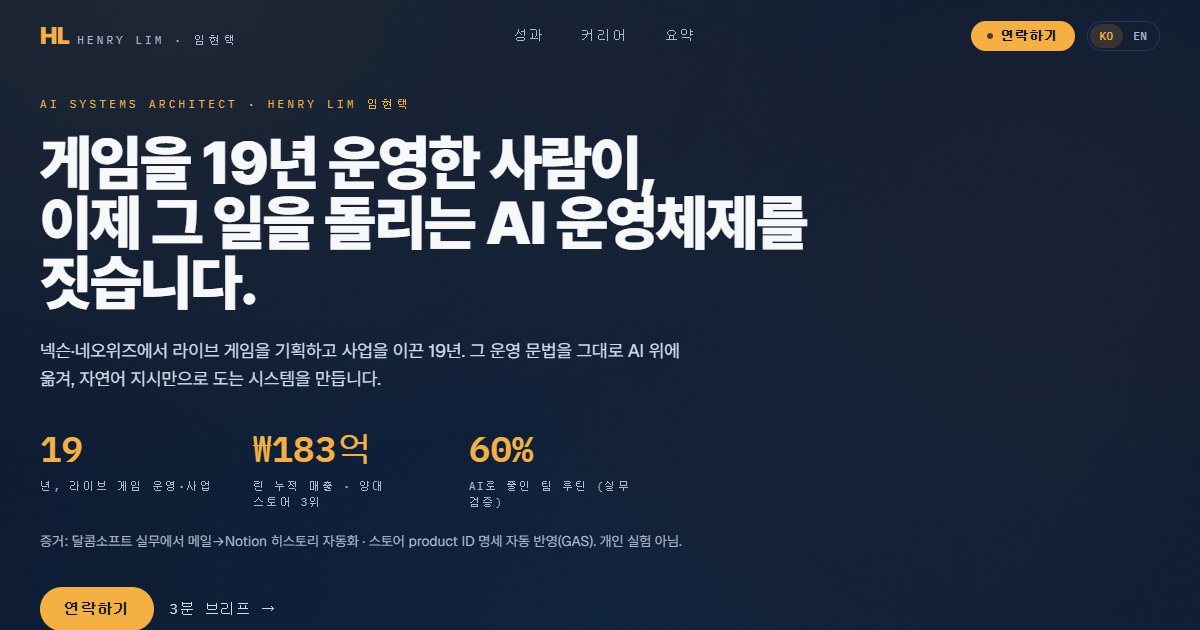
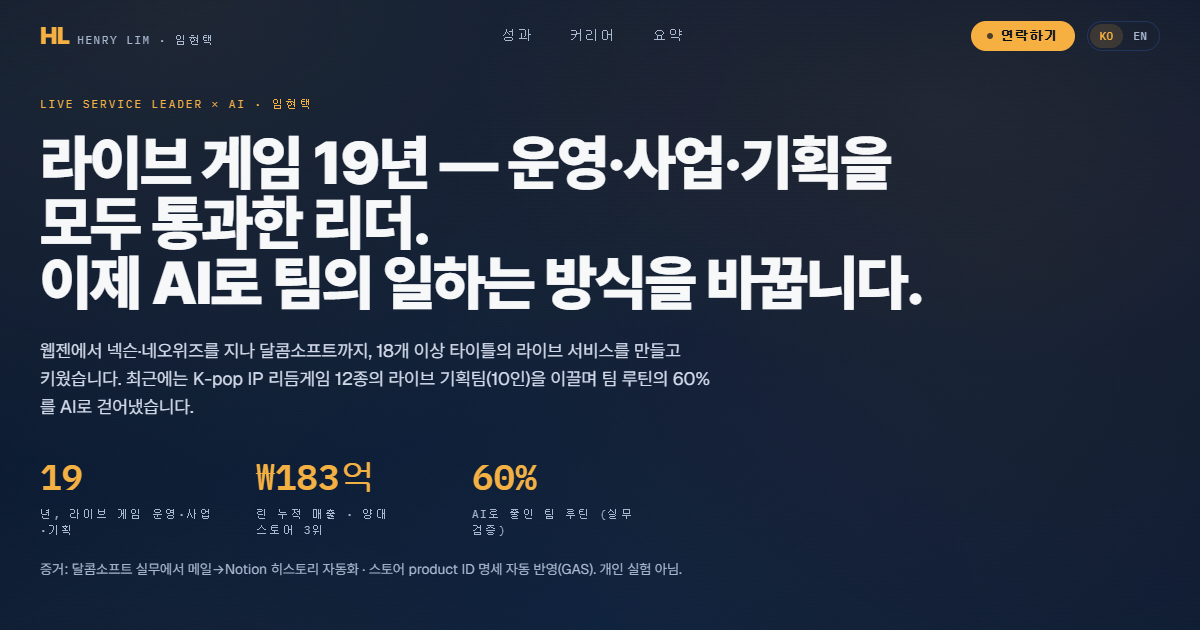
취업 P1: 검색결과·링크 미리보기까지 같은 조준으로 (SEO 메타 + OG 카드)
히어로만 바꾸고 끝냈더니 정작 채용 담당자가 링크를 받았을 때 보는 문구는
그대로였다. 크롤러·메신저 미리보기는 JS 실행 전 index.html을 읽는다.

- index.html 6종(title·description·og:title·og:description·twitter 2종)을
  라이브 서비스 리더 조준으로 교체 — 종전은 "AI Systems Architect"
- og.png 재생성: v20 시절 문구("게임을 19년 운영한 사람이…")로 굳어 있었다.
  수동 캡처가 원인이라 생성기(scripts/shoot-og.mjs, npm run og)를 만들어
  사이트가 원천이 되게 함 — PDF와 같은 원칙. 제목 없으면 실패 종료.
- profile.ts meta.description 제거: 어디서도 렌더되지 않는 죽은 필드였다
  (런타임은 제목만 갱신). 정본이 index.html임을 주석으로 고정.

검증: typecheck green · eager 136.52KB gz · 최종 45/45 · og 824KB(기존 795KB급)

diff --git a/index.html b/index.html
@@ -5,28 +5,33 @@
     <link rel="icon" type="image/svg+xml" href="/henry-portfolio/favicon.svg" />
     <meta name="viewport" content="width=device-width, initial-scale=1.0, viewport-fit=cover" />
     <meta name="theme-color" content="#0A1931" />
-    <title>Henry Lim (임현택) · AI Systems Architect — 기획자의 진화</title>
+    <!--
+      ★ 검색결과·링크 미리보기 정본. 크롤러와 메신저 미리보기는 JS 실행 전의 이 값을
+      읽으므로, 히어로 문구를 바꾸면 여기도 같이 바꿔야 한다(런타임 meta는 제목만 갱신).
+      2026-08-08: 주력 트랙(라이브 서비스·엔터테크) 조준으로 6종 일괄 교체.
+    -->
+    <title>Henry Lim (임현택) · 라이브 서비스 리더 × AI — 기획자의 진화</title>
     <meta
       name="description"
-      content="넥슨·네오위즈에서 라이브 게임을 19년 기획·운영한 뒤, 이제 그 일을 돌리는 AI 운영체제를 짓습니다. 임현택(Henry Lim) — AI 시스템 아키텍트 포트폴리오."
+      content="라이브 게임 운영·사업·기획 19년. 웹젠·넥슨·네오위즈를 지나 K-pop IP 리듬게임 12종 라이브 총괄, AI로 팀 루틴 60% 단축. 임현택(Henry Lim) 포트폴리오."
     />
     <link rel="canonical" href="https://bluedaylol80.github.io/henry-portfolio/" />
     <meta property="og:type" content="website" />
     <meta property="og:site_name" content="Henry Lim" />
     <meta property="og:url" content="https://bluedaylol80.github.io/henry-portfolio/" />
-    <meta property="og:title" content="Henry Lim (임현택) · AI Systems Architect — 19년 라이브 게임에서 AI 운영체제로" />
+    <meta property="og:title" content="Henry Lim (임현택) — 라이브 게임 19년, 운영·사업·기획을 모두 통과한 리더" />
     <meta
       property="og:description"
-      content="넥슨·네오위즈 19년의 운영 문법을 AI 위에 다시 짓습니다. 라이브 3계층 AI 아키텍처로 증명하는 포트폴리오."
+      content="K-pop IP 12종 라이브 총괄 · 린: 더 라이트브링어 누적 183억 · AI로 팀 루틴 60% 단축. 19년의 운영 문법을 AI 위에서 다시 굴립니다."
     />
     <meta property="og:image" content="https://bluedaylol80.github.io/henry-portfolio/og.png" />
     <meta property="og:image:width" content="1200" />
     <meta property="og:image:height" content="630" />
     <meta name="twitter:card" content="summary_large_image" />
-    <meta name="twitter:title" content="Henry Lim (임현택) · AI Systems Architect" />
+    <meta name="twitter:title" content="Henry Lim (임현택) · 라이브 서비스 리더 × AI" />
     <meta
       name="twitter:description"
-      content="넥슨·네오위즈 19년의 운영 문법을 AI 위에. 라이브 3계층 AI 아키텍처로 증명하는 포트폴리오."
+      content="K-pop IP 12종 라이브 총괄 · 린 누적 183억 · AI로 팀 루틴 60% 단축."
     />
     <meta name="twitter:image" content="https://bluedaylol80.github.io/henry-portfolio/og.png" />
   </head>

diff --git a/src/content/profile.ts b/src/content/profile.ts
@@ -8,11 +8,14 @@ import type { Bi } from '../lib/i18n'
  * ─────────────────────────────────────────────────────────────
  */
 
+/**
+ * 브라우저 탭 제목(런타임)만 여기서 온다.
+ * ⚠ 검색결과·링크 미리보기 문구(description·og·twitter)와 og.png는 **index.html이 정본**이다 —
+ * 크롤러는 JS 실행 전 값을 읽으므로 여기에 적어봐야 반영되지 않는다(2026-08-08 실측으로 확인,
+ * 죽은 description 필드 제거). 히어로 문구를 고치면 index.html + `npm run og`도 같이.
+ */
 export const meta = {
   title: 'Henry Lim (임현택) — 기획자의 진화 · The Evolution of a Planner',
-  // 검색결과·링크 미리보기에 뜨는 한 줄. 히어로와 같은 조준(라이브 서비스 리더 우선).
-  description:
-    '라이브 게임 운영·사업·기획 19년 · K-pop IP 12종 라이브 총괄 · AI로 팀 루틴 60% 단축. 임현택(Henry Lim)의 포트폴리오.',
 }
 
 /* 2026-08-05 정리(G4): 어디서도 렌더되지 않던 v19 이전 유물 export 제거 —
